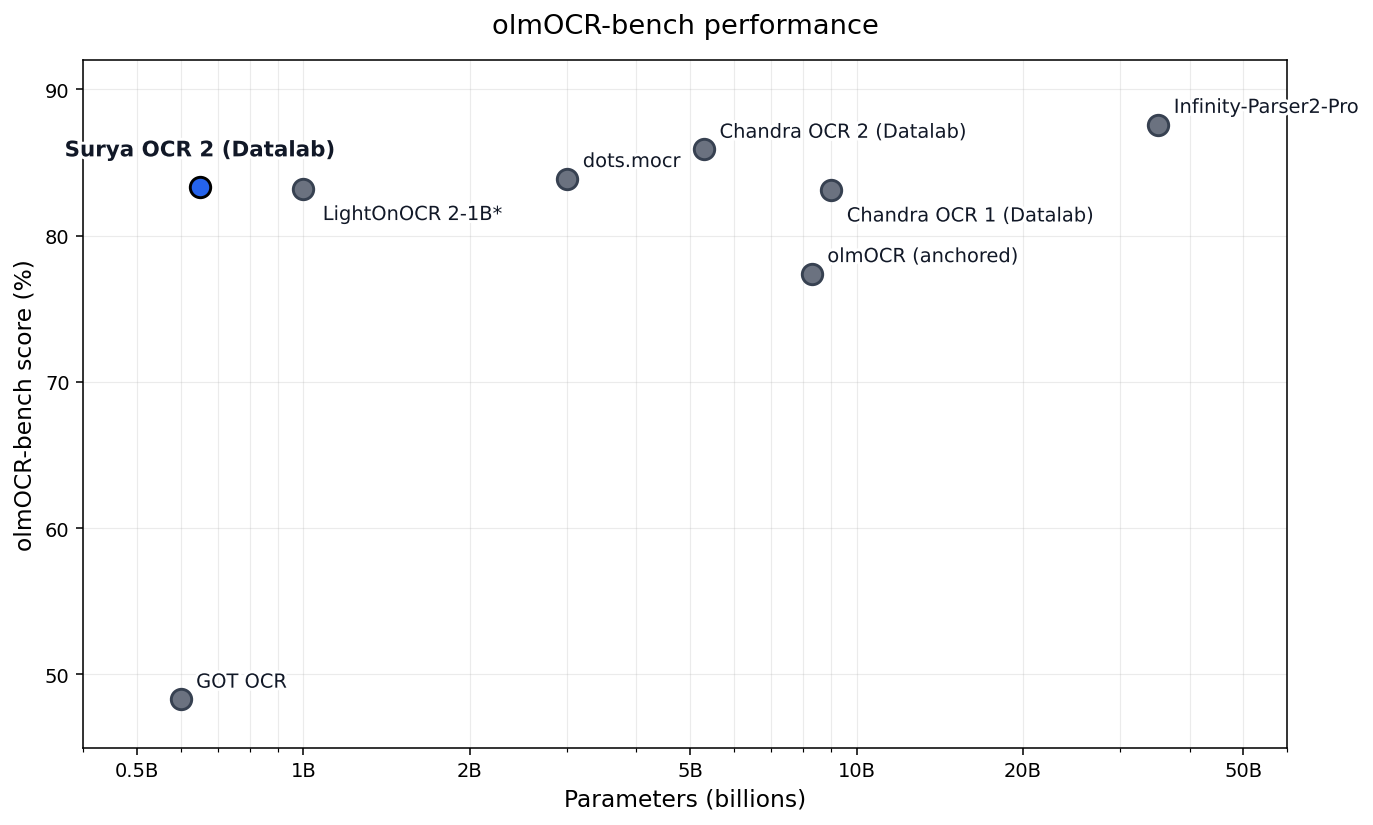
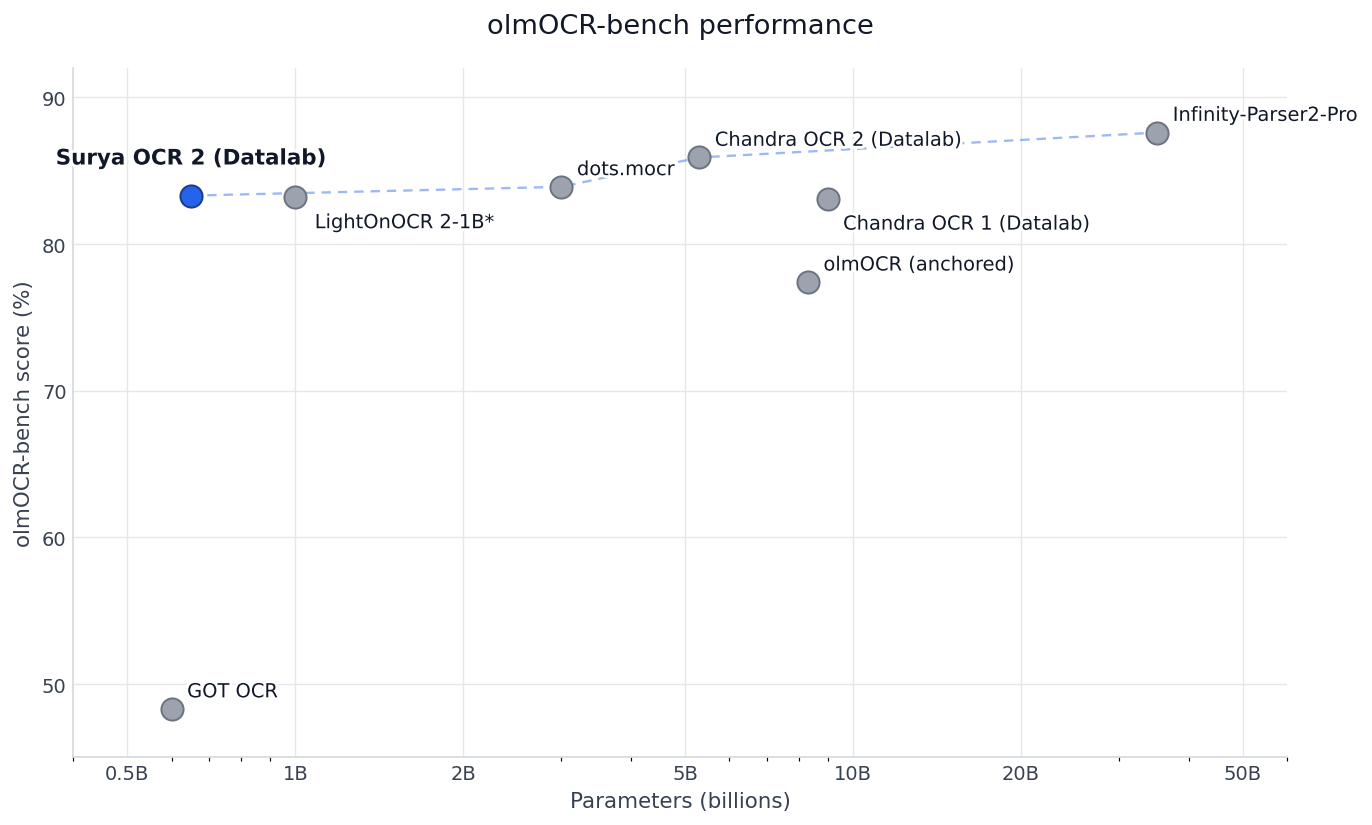
Cleanups

diff --git a/surya/scripts/table_recognition.py b/surya/scripts/table_recognition.py
@@ -33,7 +33,9 @@ logger = get_logger()
 def table_recognition_cli(
     input_path: str, skip_table_detection: bool, mode: str, **kwargs
 ):
-    loader = CLILoader(input_path, kwargs)
+    # Layout runs on the low-DPI render; table crops come from the high-DPI
+    # image so the table_rec model sees readable cell content.
+    loader = CLILoader(input_path, kwargs, highres=True)
 
     manager = SuryaInferenceManager()
     layout_predictor = LayoutPredictor(manager)
@@ -53,13 +55,16 @@ def table_recognition_cli(
     table_counts_per_img = []
 
     if skip_table_detection:
-        for img in loader.images:
+        for img in loader.highres_images:
             table_imgs.append(img)
             table_counts.append(1)
             table_counts_per_img.append(0)
     else:
-        layout_predictions = layout_predictor(loader.images)
-        for layout_pred, img in zip(layout_predictions, loader.images):
+        layout_predictions = layout_predictor(
+            loader.images,
+            target_image_sizes=[img.size for img in loader.highres_images],
+        )
+        for layout_pred, img in zip(layout_predictions, loader.highres_images):
             tables_on_page = [
                 line
                 for line in layout_pred.bboxes

diff --git a/surya/scripts/ocr_text.py b/surya/scripts/ocr_text.py
@@ -17,15 +17,21 @@ logger = get_logger()
 @click.command(help="OCR text — runs layout then per-block OCR.")
 @CLILoader.common_options
 def ocr_text_cli(input_path: str, **kwargs):
-    loader = CLILoader(input_path, kwargs)
+    # Layout runs on the low-DPI render; recognition gets the high-DPI image
+    # so small glyphs are resolved. target_image_sizes makes layout return
+    # bboxes already in the high-DPI coord space.
+    loader = CLILoader(input_path, kwargs, highres=True)
 
     manager = SuryaInferenceManager()
     layout_predictor = LayoutPredictor(manager)
     rec_predictor = RecognitionPredictor(manager)
 
     start = time.time()
-    layouts = layout_predictor(loader.images)
-    page_results = rec_predictor(loader.images, layouts)
+    layouts = layout_predictor(
+        loader.images,
+        target_image_sizes=[img.size for img in loader.highres_images],
+    )
+    page_results = rec_predictor(loader.highres_images, layouts)
 
     if loader.debug:
         logger.debug(f"OCR took {time.time() - start:.2f} seconds")

diff --git a/surya/settings.py b/surya/settings.py
@@ -12,8 +12,8 @@ from platformdirs import user_cache_dir
 class Settings(BaseSettings):
     # General
     TORCH_DEVICE: Optional[str] = None
-    IMAGE_DPI: int = 192  # used for layout, recognition, and table rec
-    IMAGE_DPI_HIGHRES: int = 192
+    IMAGE_DPI: int = 96  # used for layout + text detection (coarse structure)
+    IMAGE_DPI_HIGHRES: int = 192  # used for recognition + table rec (fine glyphs)
     IN_STREAMLIT: bool = False
     DISABLE_TQDM: bool = False
     S3_BASE_URL: str = "https://models.datalab.to"
@@ -76,12 +76,7 @@ class Settings(BaseSettings):
     SURYA_MAX_TOKENS_LAYOUT: int = 3072
     SURYA_MAX_TOKENS_TABLE_REC: int = 3072
     SURYA_MAX_TOKENS_BLOCK_CEILING: int = 8192
-    SURYA_MAX_TOKENS_FULL_PAGE: int = (
-        # 12288 (vs 8192) buys +1pp overall on olmOCR-bench and +7.24pp on
-        # long_tiny_text — dense pages were truncating at 8k. Total budget
-        # fits within VLLM_MAX_MODEL_LEN=18000 after image prefill.
-        12288
-    )
+    SURYA_MAX_TOKENS_FULL_PAGE: int = 12288
 
     # When a layout request fails to produce parseable JSON, fall back to
     # HIGH_ACCURACY_BBOX_PROMPT on the full OCR-DPI page. The HTML output

diff --git a/surya/scripts/streamlit_app.py b/surya/scripts/streamlit_app.py
@@ -270,7 +270,10 @@ if "pdf" in filetype:
     page_number = st.sidebar.number_input(
         f"Page number out of {page_count}:", min_value=1, value=1, max_value=page_count
     )
-    pil_image = get_page_image(in_file, page_number, settings.IMAGE_DPI)
+    # Render at high DPI so the OCR / table-rec demos see fine glyphs.
+    # Layout + detection internally downsample (or accept the small perf hit
+    # at demo scale); we always render and display the high-DPI page here.
+    pil_image = get_page_image(in_file, page_number, settings.IMAGE_DPI_HIGHRES)
 else:
     pil_image = Image.open(in_file).convert("RGB")
     page_number = None

diff --git a/README.md b/README.md
@@ -37,8 +37,6 @@ Commercial self-hosting of the model weights requires a license — see [Commerc
 
 ## Model Information
 
-Surya is a 650M param model that scores 83.3% on the olmocr bench - better than models 10x larger.
-
 <img src="static/images/olmocr_size_chart.png" width="700"/>
 
 
@@ -130,7 +128,7 @@ surya_ocr DATA_PATH
 The `results.json` file contains a dict keyed by input filename (no extension). Each value is a list of page dicts. Each page dict contains:
 
 - `blocks` - per-block OCR results in reading order
-  - `label` - canonicalized layout label (e.g. `Text`, `Section-Header`, `Table`, `Equation-Block`, `Picture`, `Form`, `Page-Header`, ...). See `surya/inference/prompts.py:LAYOUT_LABEL_SET` for the full set.
+  - `label` - canonicalized layout label (e.g. `Text`, `SectionHeader`, `Table`, `Equation`, `Picture`, `Form`, `PageHeader`, ...). See `surya/layout/label.py:LAYOUT_PRED_RELABEL` for the full canonical-name set.
   - `raw_label` - original label emitted by the model, before canonicalization
   - `reading_order` - 0-indexed position in layout output
   - `html` - block content as HTML (math wrapped in `<math>...</math>`, tables as `<table>...</table>`, etc.). `""` if the block was skipped
@@ -194,7 +192,7 @@ The `results.json` file will contain a json dictionary where the keys are the in
 
 **Performance tips**
 
-Detection is a torch model. `DETECTOR_BATCH_SIZE` (default `36`) controls VRAM usage on GPU; raise it on larger cards.
+Detection is a torch model. `DETECTOR_BATCH_SIZE` defaults to an auto-picked value at runtime; override the env var to control VRAM usage on GPU and raise it on larger cards.
 
 ### From python
 
@@ -224,7 +222,7 @@ The `results.json` file contains a dict keyed by input filename (no extension). 
 - `bboxes` - layout boxes in reading order
   - `polygon` - 4-corner polygon `[[x0,y0],[x1,y0],[x1,y1],[x0,y1]]`
   - `bbox` - axis-aligned `[x0, y0, x1, y1]` derived from the polygon
-  - `label` - canonicalized label. One of `Caption`, `Footnote`, `Equation-Block`, `List-Group`, `Page-Header`, `Page-Footer`, `Image`, `Section-Header`, `Table`, `Text`, `Complex-Block`, `Code-Block`, `Form`, `Table-Of-Contents`, `Figure`, `Chemical-Block`, `Diagram`, `Bibliography`, `Blank-Page`
+  - `label` - canonicalized label. One of `Caption`, `Footnote`, `Equation`, `ListGroup`, `PageHeader`, `PageFooter`, `Picture`, `SectionHeader`, `Table`, `Text`, `Figure`, `Code`, `Form`, `TableOfContents`, `ChemicalBlock`, `Diagram`, `Bibliography`, `BlankPage`
   - `raw_label` - original label emitted by the model
   - `position` - 0-indexed reading order
   - `count` - model's token estimate for OCR'ing this block (rounded to multiples of 50; used to size the per-block decode budget)
@@ -250,7 +248,7 @@ layout_predictions = layout_predictor([Image.open(IMAGE_PATH)])
 
 ## Table Recognition
 
-This command will write out a json file with the detected table cells and row/column ids, along with row/column bounding boxes.  If you want to get cell positions and text, along with nice formatting, check out the [marker](https://www.github.com/VikParuchuri/marker) repo.  You can use the `TableConverter` to detect and extract tables in images and PDFs.  It supports output in json (with bboxes), markdown, and html.
+This command will write out a json file with the detected table cells and row/column ids, along with row/column bounding boxes.  If you want to get cell positions and text, along with nice formatting, check out the [marker](https://github.com/datalab-to/marker) repo.  You can use the `TableConverter` to detect and extract tables in images and PDFs.  It supports output in json (with bboxes), markdown, and html.
 
 ```shell
 surya_table DATA_PATH
@@ -340,7 +338,7 @@ If OCR isn't working properly:
 If you want to develop surya, you can install it manually with [uv](https://docs.astral.sh/uv/):
 
 ```bash
-git clone https://github.com/VikParuchuri/surya.git
+git clone https://github.com/datalab-to/surya.git
 cd surya
 uv sync --group dev      # installs runtime + dev deps
 uv run surya_ocr ...     # or `uv shell` to enter the venv
@@ -355,7 +353,7 @@ standard quality benchmark for document parsers.
 
 ## olmOCR-bench
 
-Best-in-class accuracy under 1B parameters; pareto-optimal vs every model 3B and below.
+Pareto-optimal on the size-vs-score frontier, and best in class under 3B params.
 
 | Model                       | Params    | Score    |
 |-----------------------------|----------:|---------:|